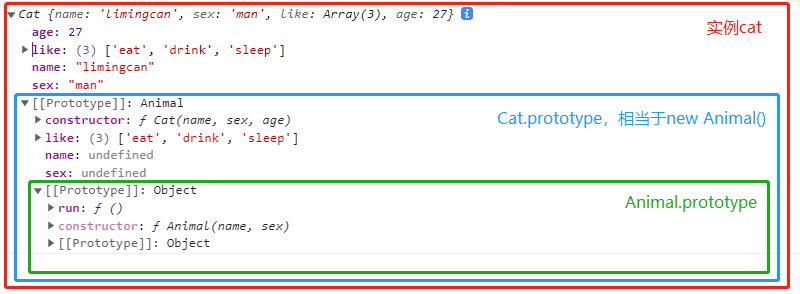
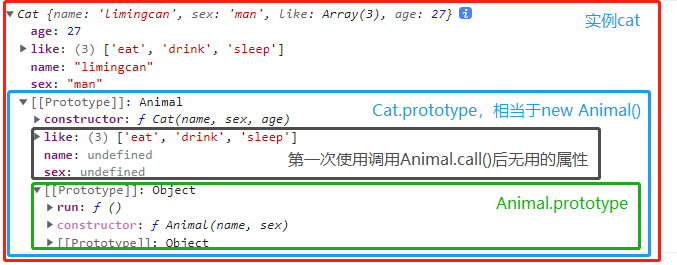
完成文章初步编写，有些图还需要重新话

Changed region(s): [[0.0, 0.0, 0.9926, 0.9962]]

diff --git a/pages/posts/_id.vue b/pages/posts/_id.vue
@@ -124,11 +124,17 @@ export default {
     }
 }
 
+
 // 定义一个父类
 function Animal(name, sex) {
   this.name = name;
   this.sex = sex;
   this.like = ['eat', 'drink', 'sleep'];
+}
+
+// 为父类的原型添加一个run方法
+Animal.prototype.run = function() {
+  console.log('跑步');
 }
 
 // 定义一个子类
@@ -138,35 +144,22 @@ function Cat(name, sex, age) {
   this.age = age;
 }
 
-// 定义一个利用原型式继承方式，跟寄生式继承思想来实现继承
-function inheritObj(parentClass, childClass) {
-  const finalProperty = Object.create(parentClass.prototype);
+// 核心：将Cat的原型指向父类Animal的一个实例（第二次调用Animal构造函数）
+Cat.prototype = new Animal();
 
-  finalProperty.constructor = childClass;
-
-  childClass.prototype = finalProperty;
-}
-
-// 为父类的原型添加一个run方法
-Animal.prototype.run = function() {
-  console.log('跑步');
-}
-
-// 实现寄生组合继承
-inheritObj(Animal, Cat);
-
-// 给子类的原型添加一个方法
-Cat.prototype.catwalk = function() {
-  console.log('走猫步');
-}
+// 实例cat.constructor是来自Cat.prototype.constructor
+// 不矫正的cat.constructor话，当前的cat.constructor指向的是Animal
+// 因为Cat.prototype被重写，constructor被指向了new Animal().__proto__.constructor，相当于Animal.prototype.constructor
+Cat.prototype.constructor = Cat;
 
 // 实例一个由子类new 出来的对象
 const cat = new Cat('limingcan', 'man', 27);
 
-
 setTimeout(() => {
-    console.log(cat);
-}, 1000);
+console.log(cat);
+    
+}, 500);
+
 
 </script>
 

diff --git a/blog/2022/js-inherit.md b/blog/2022/js-inherit.md
@@ -1,13 +1,20 @@
 ---
-title: 深入谈谈JS继承的几种方式
-des: 深入JS继承，让自己升一个level
+title: JS继承面试的时候怎么说？深入继承，看完文章以后，随便说
+des: 深入理解JS继承，让自己升一个level
 createTime: '2022-11-13'
 ---
 
-## 深入谈谈JS继承的几种方式
+## `JS继承`面试的时候怎么说？深入继承，看完文章以后，随便说
 
 ### 前言
-这两天一直在为自己查漏补缺，发现`JS`继承这块方式蛮多，写这篇文章也是对自己的一个梳理总结。我觉得最重要的不是继承怎么写，最重要的是`JS`实现继承这个**思想**是什么。但在我们要弄懂`JS`继承之前，一定要弄明白**原型链**是个什么东西，因为`JS`继承的思想，核心就是靠**原型链**完成。如果大家对原型链还不是很清楚，可以先读读我写的这篇关于原型链的文章——[最通俗易懂的原型、原型链理解](https://juejin.cn/post/7077191009343537159)。
+`JS`继承这块，`ES6`已经有`class`很香的语法糖实现了，`ES6`之前那些实现继承的方法真的又多又长，说句心里话，能不学真的不想再学。但是没办法，面试还是要搞你呀，所以这两天看回`ES6`之前的继承，发现还是蛮有意思的，写这篇文章也是对自己的一个梳理总结。`JS`的继承，核心就是靠**原型链**完成。如果大家对原型链还不是很清楚，可以先读读这篇关于原型链的文章——[最通俗易懂的原型、原型链理解](https://juejin.cn/post/7077191009343537159)。  
+文章很长，大家可以分成两部分来看，原型链继承、盗用构造函数继承、组合继承为一部分，原型式继承、寄生式继承、寄生式组合继承为一部分。
+
+后面的例子，我们都用：
+ - `Animal`作为父类
+ - `Cat`为子类
+ - `cat`为子类`Cat`实例一，`small_cat`为子类`Cat`实例二
+
 
 ### `JS`继承最常见的**六种**方式
 - 原型链继承
@@ -18,9 +25,9 @@ createTime: '2022-11-13'
 - 寄生式组合继承
 
 ### 原型链继承
-> 原理：为什么叫原型链继承，我们可以这样记，因为核心就是我们会通过改变某个构造函数的原型（`prototype`），使其跟其他构造函数的`prototype`不断串联起来，从而实现继承。  
+> 原理：为什么叫原型链继承，我们可以这样记，因为核心就是我们会重写某个构造函数的原型（`prototype`），使其指向父类的一个实例，以此让它们的原型链不断串联起来，从而实现继承。  
 
-假设我们有一个父类构造函数`Animal`，还有一个子类构造函数`Cat`。将构造函数`Cat.prototype`指向父类的一个实例（`Cat.prototype = new Animal()`），这样我们就完成了一个原型链继承。来看看具体例子：
+将子类`Cat.prototype`指向父类`Animal`的一个实例（`Cat.prototype = new Animal()`），这样我们就完成了一个原型链继承。来看看具体例子：
 ````javascript
 // 定义一个父类
 function Animal() {
@@ -40,9 +47,9 @@ function Cat() {
 // 核心：将Cat的原型指向父类Animal的一个实例
 Cat.prototype = new Animal();
 
-// cat.constructor是来自Cat.prototype.constructor
-// 不矫正的话，当前的cat.constructor指向的是Animal
-// 所以这里需要矫正一下Cat.prototype.constructor，因为Cat.prototype被重写，constructor被指向了new Animal().__proto__.constructor
+// 实例cat.constructor是来自Cat.prototype.constructor
+// 不矫正的cat.constructor话，当前的cat.constructor指向的是Animal
+// 因为Cat.prototype被重写，constructor被指向了new Animal().__proto__.constructor，相当于Animal.prototype.constructor
 Cat.prototype.constructor = Cat;
 
 // 实例一个由子类 new 出来的对象
@@ -50,15 +57,21 @@ const cat = new Cat();
 
 cat.run();
 
+console.log(cat);
+
 ````  
+
+打印：
+<img src="../md/js-inherit/pic_0.png" />  
+
 
 解析：  
 > 当我们执行`Cat.prototype = new Animal();`这句时，发生了什么：  
 
-它把`Cat.prototype`整个重写了，并将两个构造函数通过原型链联系起来，从而实现继承。因为我们将`Cat.prototype`指向了父类构造函数`Animal`的一个实例，我们暂时把这个实例叫做`中介实例X`，这个`中介实例X`自己也有一个`__proto__`，它又指向了`Animal.prototype`。所以当实例`cat`在自身找不到属性方法时，它会去`cat.__proto__`（相当于`Cat.prototype`，但是`Cat.prototype`被重写成了`中介实例X`，所以是去`中介实例X`里面找）找。如果`中介实例X`也找不到，就会去`中介实例X.__proto__`（相当于`Animal.prototype`）找。有值的话，则返回值；没有值的话又会去`Animal.prototype.__proto__`（相当于`Object.prototype`）找。有值的话，则返回值；没有值的话又会去`Object.prototype.__proto__`找，但是`Object.prototype.__proto__`返回`null`，原型链到顶，一条条原型链搜索完毕，都没有，则返回`undefined`。所以这就是为什么实例`cat`**自身**没有`like`属性跟`run`方法，但是还是可以访问。上述的大致过程，我们可以这样看：
+它把`Cat.prototype`整个重写了，并将两者通过原型链联系起来，从而实现继承。因为我们将`Cat.prototype`指向了父类`Animal`的一个实例，我们暂时把这个实例叫做`中介实例X`，这个`中介实例X`自己也有一个`__proto__`，它又指向了`Animal.prototype`。所以当实例`cat`在自身找不到属性方法时，它会去`cat.__proto__`（相当于`Cat.prototype`，但是`Cat.prototype`被重写成了`中介实例X`，所以是去`中介实例X`里面找）找。如果`中介实例X`也找不到，就会去`中介实例X.__proto__`（相当于`Animal.prototype`）找。有值的话，则返回值；没有值的话又会去`Animal.prototype.__proto__`（相当于`Object.prototype`）找。有值的话，则返回值；没有值的话又会去`Object.prototype.__proto__`找，但是`Object.prototype.__proto__`返回`null`，原型链到顶，一条条原型链搜索完毕，都没有，则返回`undefined`。所以这就是为什么实例`cat`**自身**没有`like`属性跟`run`方法，但是还是可以访问。上述的大致过程，我们可以这样看：
 <img src="../md/js-inherit/pic_1.png" />  
 
-这条链有点绕，所以这也是为什么大家对原型链继承总是那么晕头转向的原因。建议多读几遍理解一下，看看这条链是怎么形成的，所以对原型链不理解的同学，建议还是先把[原型链](https://juejin.cn/post/7077191009343537159)弄清楚，这样才好理解继承。  
+这条链有点绕，所以这也是为什么大家对原型链继承总是那么晕头转向的原因。建议读的时候想一下这条链是什么样的，怎么来的。但是核心还是要清楚原型链，所以对原型链不理解的同学，建议还是先把[原型链](https://juejin.cn/post/7077191009343537159)弄清楚，这样才好理解继承。  
 
 
 如果我们这时候给实例`cat`的`like`属性`push`一个值，看看下面例子： 
@@ -82,13 +95,12 @@ function Cat() {
 // 核心：将Cat的原型指向父类Animal的一个实例
 Cat.prototype = new Animal();
 
-// cat.constructor是来自Cat.prototype.constructor
-// 不矫正的话，当前的cat.constructor指向的是Animal
-// 所以这里需要矫正一下Cat.prototype.constructor，因为Cat.prototype被重写，constructor被指向了new Animal().__proto__.constructor
+// 实例cat.constructor是来自Cat.prototype.constructor
+// 不矫正的cat.constructor话，当前的cat.constructor指向的是Animal
+// 因为Cat.prototype被重写，constructor被指向了new Animal().__proto__.constructor，相当于Animal.prototype.constructor
 Cat.prototype.constructor = Cat;
 
-
-// 实例一个由子类new 出来的对象
+// 实例一个由子类 new 出来的对象
 const cat = new Cat();
 
 // 给like属性push一个play值
@@ -108,7 +120,7 @@ console.log(cat.like === small_cat.like);
 打印：  
 <img src="../md/js-inherit/pic_2.png" />  
 
-我们会发现，如果我们修改实例`cat`的属性，并且该属性是引用类型的话，后续实例化出来的对象，**都会被影响到**。因为`cat`跟`small_cat`自身没有`like`属性，他们的`like`都继承自`Cat.prototype`，指向的是的同一份地址。  
+我们会发现，如果我们修改实例`cat`的属性，并且该属性是引用类型的话，后续实例化出来的对象，**都会被影响到**。因为`cat`跟`small_cat`**自身**没有`like`属性，它们的`like`都继承自`Cat.prototype`，指向的是的同一份地址。  
 
 > 如果想要两个实例修改`like`互不影响，只能给他们自身增加一个`like`属性（`cat.like = ['eat', 'drink', 'sleep', 'play'];cat_small.like = ['food']`。如果自身有属性，是不会去`prototype`查找的，它们是两个实例自己独有的地址），但这样就失去了继承的意义了。
 
@@ -119,7 +131,7 @@ console.log(cat.like === small_cat.like);
   - 子类实例可以直接访问到父类实例或父类原型上的属性方法
 
 - 缺点：
-  - 父类所有的引用类型属性都会实例出来的对象共享，所以修改一个实例对象的引用类型属性，会导致所有实例对象受到影响
+  - 父类所有的引用类型属性都会被实例出来的对象共享，所以修改一个实例对象的引用类型属性，会导致所有实例对象受到影响
   - 实例化时，不能传参数
 
 因此为了解决原型链继承的缺点，又搞了个盗用构造函数继承的方式。
@@ -128,7 +140,7 @@ console.log(cat.like === small_cat.like);
 盗用构造函数继承，也叫借用构造函数继承，它可以解决原型链继承带来的缺点。
 > 原理：在子类构造函数中，调用父类构造函数方法，但通过`call`或者`apply`方法改变了父类构造函数内`this`的指向，使得子类实例出来的对象，**自身**拥有来自父类构造函数的方法跟属性，且分别独立，互不影响。
 
-我们还是假设有一个父类构造函数`Animal`，还有一个子类构造函数`Cat`，来看看具体例子：
+来看看具体例子：
 
 ````javascript
 // 定义一个父类
@@ -151,7 +163,7 @@ function Cat(name, age) {
   this.age = age;
 }
 
-// 实例一个由子类new 出来的对象
+// 实例一个由子类 new 出来的对象
 const cat = new Cat('limingcan', 27);
 
 // 给实例cat的like属性push一个toys值
@@ -173,27 +185,26 @@ console.log(small_cat.run);
 打印：
 <img src="../md/js-inherit/pic_3.png" />  
 
-解析：  
 从打印我们可以看出：
   1. 实例化子类`Cat`时，可以传入参数
-  2. 父类构造函数`Animal`里的属性方法，都被添加到 `cat`跟`small_cat`的**自身**里了（因为子类构造函数`Cat`调用了`call`方法，某种程度来说继承了父类构造函数`Animal`里的属性方法）
-  3. 修改`cat`不会影响到`small_cat`（因为实例出来的对象，所有的属性、方法都是添加到实例对象自身，而不是添加到实例对象的原型上，它们是完全独立，指向的都是不同的地址）
-  4. 打印`run`方法，输出都是`undefined`，说明实例没有继承父类构造函数`Animal`原型上的方法（实例的原型链没有跟父类构造函数`Animal`原型链打通，因此原型链上搜索不到`run`方法）
+  2. 父类`Animal`里的属性方法，都被添加到实例`cat`跟实例`small_cat`的**自身**里了（因为子类`Cat`调用了`call`方法，某种程度来说继承了父类`Animal`里的属性方法）
+  3. 修改实例`cat`不会影响到实例`small_cat`（因为实例出来的对象，所有的属性、方法都是添加到实例对象**自身**，而不是添加到实例对象的原型上，它们是完全独立，指向的都是不同的地址）
+  4. 打印`run`方法，输出都是`undefined`，说明实例没有继承父类`Animal`原型上的方法（实例的原型链没有跟父类`Animal`原型链打通，因此原型链上搜索不到`run`方法，可以跟原型链继承对比想想）
 
 总结：
 - 优点：
   - 实例化时，可以传参
-  - 父类里的所有属性、方法就像一个蓝本，会被后面实例出来的复制，并且添加到实例自己本身独立存在，所有修改一个实例对象的引用类型属性时，不会导致所有实例对象受到影响
+  - 子类通过`call`或`apply`方法，将父类里的所有属性、方法复制到实例对象的**自身**，而不是共享原型链上同一个属性，所以修改一个实例对象的引用类型属性时，不会导致所有实例对象受到影响
 
 - 缺点：
   - 无法继承父类原型上的属性与方法
 
-我们通过借用构造函数继承的方法，解决了原型链继承的缺点。但是又产生了一个新的问题——子类无法继承父类原型上的属性与方法，如果我们把这两种方式结合一下，会不会好点呢，于是有了组合继承这个继承方式。
+我们通过借用构造函数继承的方法，解决了原型链继承的缺点。但是又产生了一个新的问题——子类无法继承父类原型（`Animal.prototype`）上的属性与方法，如果我们把这两种方式结合一下，会不会好点呢，于是有了组合继承这个继承方式。
 
 ### 组合继承
-> 原理：利用原型链继承，实现实例对父类原型方法的继承；利用借用构造函数继承，实现实例对父类属性的继承。
+> 原理：利用原型链继承，实现实例对父类原型（`Animal.protoytype`）上的方法与属性继承；利用借用构造函数继承，实现实例对父类构造函数（`function Animal() {}`）里的属性的继承，并且解决原型链继承的缺陷。
 
-我们还是假设有一个父类构造函数`Animal`，还有一个子类构造函数`Cat`，来看看具体例子：
+来看看具体例子：
 
 ````javascript
 // 定义一个父类
@@ -218,9 +229,9 @@ function Cat(name, sex, age) {
 // 核心：将Cat的原型指向父类Animal的一个实例（第二次调用Animal构造函数）
 Cat.prototype = new Animal();
 
-// cat.constructor是来自Cat.prototype.constructor
-// 不矫正的话，当前的cat.constructor指向的是Animal
-// 所以这里需要矫正一下Cat.prototype.constructor，因为Cat.prototype被重写，constructor被指向了new Animal().__proto__.constructor
+// 实例cat.constructor是来自Cat.prototype.constructor
+// 不矫正的cat.constructor话，当前的cat.constructor指向的是Animal
+// 因为Cat.prototype被重写，constructor被指向了new Animal().__proto__.constructor，相当于Animal.prototype.constructor
 Cat.prototype.constructor = Cat;
 
 // 实例一个由子类new 出来的对象
@@ -232,22 +243,22 @@ console.log(cat);
 打印：
 <img src="../md/js-inherit/pic_4.png" />  
 
-由此我们能得出总结：
+由上图我们能得出总结：
 - 优点：
-  - 利用原型链继承，将实例、子类、父类三者的原型链串联起来，让实例对象继承父类构造函数原型的方法与属性
-  - 利用借用构造函数继承，将父类构造函数的属性、方法添加到实例**自身**上，解决原型链继承，实例修改引用类型属性时对后续实例影响问题
-  - 利用构造函数继承，实现实例化时，可传参
+  - 利用原型链继承，将实例`cat`、子类`Cat`、父类`Animal`三者的原型链串联起来，让实例对象继承父类原型`Animal.prototype`的方法与属性
+  - 利用借用构造函数继承，将父类构造函数`function Animal() {}`的属性、方法添加到实例**自身**上，解决原型链继承，实例修改引用类型属性时对后续实例影响问题
+  - 利用构造函数继承，实例化对象时，可传参
 
 - 缺点：
-  - 两次调用父类构造函数`Animal`（第一次在子类`Cat`构造函数内调用，第二次在`new Animal()`时候调用）
-  - 实例自身拥有的属性，子类`Cat.prototype`也会有，造成不必要的浪费（因为`Cat.prototype`被重写为`new Animal()`了，`new Animal()`是父类的一个实例，也有`name`、`sex`、`like`属性）
+  - 两次调用父类构造函数`function Animal() {}`（第一次在子类`Cat`构造函数内调用，第二次在`new Animal()`时候调用）
+  - 实例自身拥有的属性，子类`Cat.prototype`里也会有，造成不必要的浪费（因为`Cat.prototype`被重写为`new Animal()`了，`new Animal()`是父类的一个实例，也有`name`、`sex`、`like`属性）
 
 看来组合继承也不是最完美的继承方式。我们先把组合继承放一边，先看看什么是原型式继承。
 
 ### 原型式继承
 > 原理：用于创建一个新对象，使用现有的对象来作为新创建对象的原型（prototype），详细用法可以看看[这里](https://developer.mozilla.org/zh-CN/docs/Web/JavaScript/Reference/Global_Objects/Object/create)。
 
-我们还是假设有一个父类构造函数`Animal`，还有一个子类构造函数`Cat`，来看看具体例子：
+来看看具体例子：
 
 ````javascript
 // 定义一个父类（新建出来的对象的__proto__会指向它）
@@ -262,7 +273,7 @@ const Animal = {
 // 新建以Animal为原型的实例
 const cat = Object.create(
   Animal,
-  // 这里定义的是实例自身的方法
+  // 这里定义的是实例自身的方法或属性
   {
     name: {
       value: 'limingcan'
@@ -275,7 +286,7 @@ cat.like.push('play');
 
 const small_cat = Object.create(
   Animal,
-  // 这里定义的是实例自身的方法
+  // 这里定义的是实例自身的方法或属性
   {
     name: {
       value: 'mimi'
@@ -293,7 +304,7 @@ console.log(cat.__proto__ === Animal);
 打印：
 <img src="../md/js-inherit/pic_5.png" />  
 
-总结：
+由上图我们可以得出总结：
 
 - 优点：
   - 实现比原型链继承更简洁
@@ -308,13 +319,23 @@ console.log(cat.__proto__ === Animal);
 ### 寄生式继承
 > 原理：它其实就是对原型式继承进行一个小封装，增强了一下实例出来的对象
 
-我们还是假设有一个父类构造函数`Animal`，还有一个子类构造函数`Cat`，来看看具体例子：
-
+来看看具体例子：
 
 ````javascript
+
 // 定义一个父类（新建出来的对象的__proto__会指向它）
+const Animal = {
+  name: 'nobody',
+  like: ['eat', 'drink', 'sleep'],
+  run() {
+    console.log('跑步');
+  }
+};
+
+// 定义一个封装Object.create()方法的函数
 const createObj = (parentPropety, ownProperty) => {
-  // 生成一个以parentPropety为原型的对象obj
+  // 生成一个以parentPropety 为原型的对象obj
+  // ownProperty 是新建出来的实例，拥有自身的属性跟方法配置
   const obj = Object.create(parentPropety, ownProperty);
 
   // 增强功能
@@ -324,15 +345,6 @@ const createObj = (parentPropety, ownProperty) => {
 
   return obj;
 }
-
-
-const Animal = {
-  name: 'nobody',
-  like: ['eat', 'drink', 'sleep'],
-  run() {
-    console.log('跑步');
-  }
-};
 
 // 新建以Animal为原型的实例
 const cat = createObj(Animal, {
@@ -369,20 +381,19 @@ console.log(cat.__proto__ === Animal);
   - 父类所有的引用类型属性都会实例出来的对象共享，所以修改一个实例对象的引用类型属性，会导致所有实例对象受到影响
   - 实例化时，不能传参数
 
-寄生式继承优缺点跟原型式继承一样，但最重要的是它提供了一个类似**工厂的思想**，是对原型式继承的一个封装。前面我们说到组合继承还是会有一些缺陷，经过原型式继承跟寄生式继承，我们可以利用这两个继承的思想，来解决组合继承的缺陷，它就是寄生组合式继承。
+寄生式继承优缺点跟原型式继承一样，但最重要的是它提供了一个类似**工厂的思想**，是对原型式继承的一个封装。前面我们说到组合继承还是会有一些缺陷，通过原型式继承跟寄生式继承，我们可以利用这两个继承的思想，来解决组合继承的缺陷，它就是寄生组合式继承。
 
 ### 寄生式组合继承
-> 原理：利用原型链继承，实现实例对父类原型方法的继承；利用借用构造函数继承，实现实例对父类属性的继承，并且解决了组合继承带来的缺陷
+> 原理：利用原型链继承，实现实例对父类原型（`Animal.prototype`）方法与属性的继承；利用借用构造函数继承，实现实例对父类构造函数（`function Animal() {}`）里的属性的继承，并且解决了组合继承带来的缺陷
 
 前面我们说到，组合继承会有以下两个缺点：
-  - 两次调用父类构造函数（第一次在子类构造函数内使用`call`或者`apply`方法时调用；第二次在将子类构造函数的prototype指向父类实例`new Animal()`时候调用）
-  - 实例自身拥有的属性，子类构造函数的`prototype`里也会有，造成不必要的浪费（因为子类构造函数的`protptype`被重写为父类的一个实例了）
+  - 会两次调用父类构造函数`function Animal() {}`。（第一次在子类构造函数内使用`call`或者`apply`方法时调用；第二次在`Cat.prototype = new Animal()`时候调用了）
+  - 实例自身拥有的属性，子类构造函数的`prototype`里也会有，造成不必要的浪费（因为子类构造函数的`protptype`被重写为父类的一个实例了，所以`Cat.prototype`也会拥有父类实例里的属性跟方法）
 
-通过上面原型式继承的方式，我们可以把原型链继承里，子类构造函数的`protptype`被重写为父类的一个实例这一步，用寄生式继承的思想，用`Object.create()`去替换掉。我们还是假设有一个父类构造函数`Animal`，还有一个子类构造函数`Cat`，来看看具体例子：
+通过上面原型式继承的方式，我们可以把原型链继承里，`Cat.prototype = new Animal()`这一步，用寄生式继承的思想，用`Object.create()`去替换掉。来看看具体例子：
 
 
 ````javascript
-
 // 定义一个父类
 function Animal(name, sex) {
   this.name = name;
@@ -397,8 +408,12 @@ function Cat(name, sex, age) {
   this.age = age;
 }
 
-// 定义一个利用原型式继承方式，跟寄生式继承思想来实现继承
+// 定义一个利用原型式继承方式，跟寄生式继承思想来实现寄生组合式继承的方法
 function inheritObj(parentClass, childClass) {
+  // parentClass 为传入的父类
+  // childClass 为传入的子类
+  // finalProperty 为最后继承的原型对象
+
   const finalProperty = Object.create(parentClass.prototype);
 
   finalProperty.constructor = childClass;
@@ -441,9 +456,13 @@ console.log(cat);
 
 
 解析：  
+<!-- （我们把`parentClass`称作父类，把`childClass`称作子类，把`finalProperty`称作最后继承的原型对象） -->
+我们想想为什么在组合继承时，我们要`Cat.prototype = new Animal()`？核心是因为我们要**打通实例`cat`、子类`Cat`、父类`Animal`三者的原型链**，从而实现继承。我们顺着这个思路，解析一下上面`inheritObj`这个方法，短短三行，但是为什么会发生那么神奇的事：
+ - `const finalProperty = Object.create(parentClass.prototype)`：浅拷贝一份`parentClass.prototype`，并将其作为`finalProperty`对象的原型，即`finalProperty.__proto__ === parentClass.prototype`。此时`finalProperty.constructor`指向的是`parentClass.prototype.constructor`
+ - `finalProperty.constructor = childClass`：寄生式继承思想，增强对象。矫正`finalProperty.constructor`，让其指向`childClass`
+ - `childClass.prototype = finalProperty`：使得实例找不到方法属性，会去`childClass.prototype`找；再不到，会去`finalProperty`找；再找不到会去`finalProperty__proto__（parentClass.prototype）`找。打通了子类`childClass`与父类的`parentClass`原型链，实现了父子类的继承。
 
-我们想想为什么在组合继承时，我们要把子类的`prototype`重写为父类的实例呢（`Cat.prototype = new Animal()`）？核心是因为我们要**打通实例、子类、父类三者的原型链**，从而实现继承。我们顺着这个思路，解析一下上面`inheritObj`这个方法。短短三行，但是为什么会发生那么神奇的事：
- - `const finalProperty = Object.create(parentClass.prototype);`：新建一个以`parentClass.prototype`为原型的`finalProperty`对象。此时`finalProperty.constructor`指向的是`parentClass.prototype.constructor`
- - `finalProperty.constructor = childClass;`：寄生式继承思想，增强对象。了矫正`finalProperty.constructor`，让其指向`childClass`
- - `childClass.prototype = finalProperty;`：打通子类`childClass.prototype`指向新建出来的对象`finalProperty`。打通了子类`childClass`与父类的`parentClass`原型链，实现了父子类的继承。
 
+### 最后
+终于写完了！真的太累了！希望这篇文章读完对大家有所帮助，面试的时候不虚。只要理解透了各个继承方式的原理，各个继承方式的优缺点真的没有必要背，优缺点自己总结就好了呀，万变不离其宗~  
+如果大家有什么异同，欢迎评论交流；如果觉得这篇文章好的话，欢迎点赞分享，这篇文章真的花了我不少功夫。
